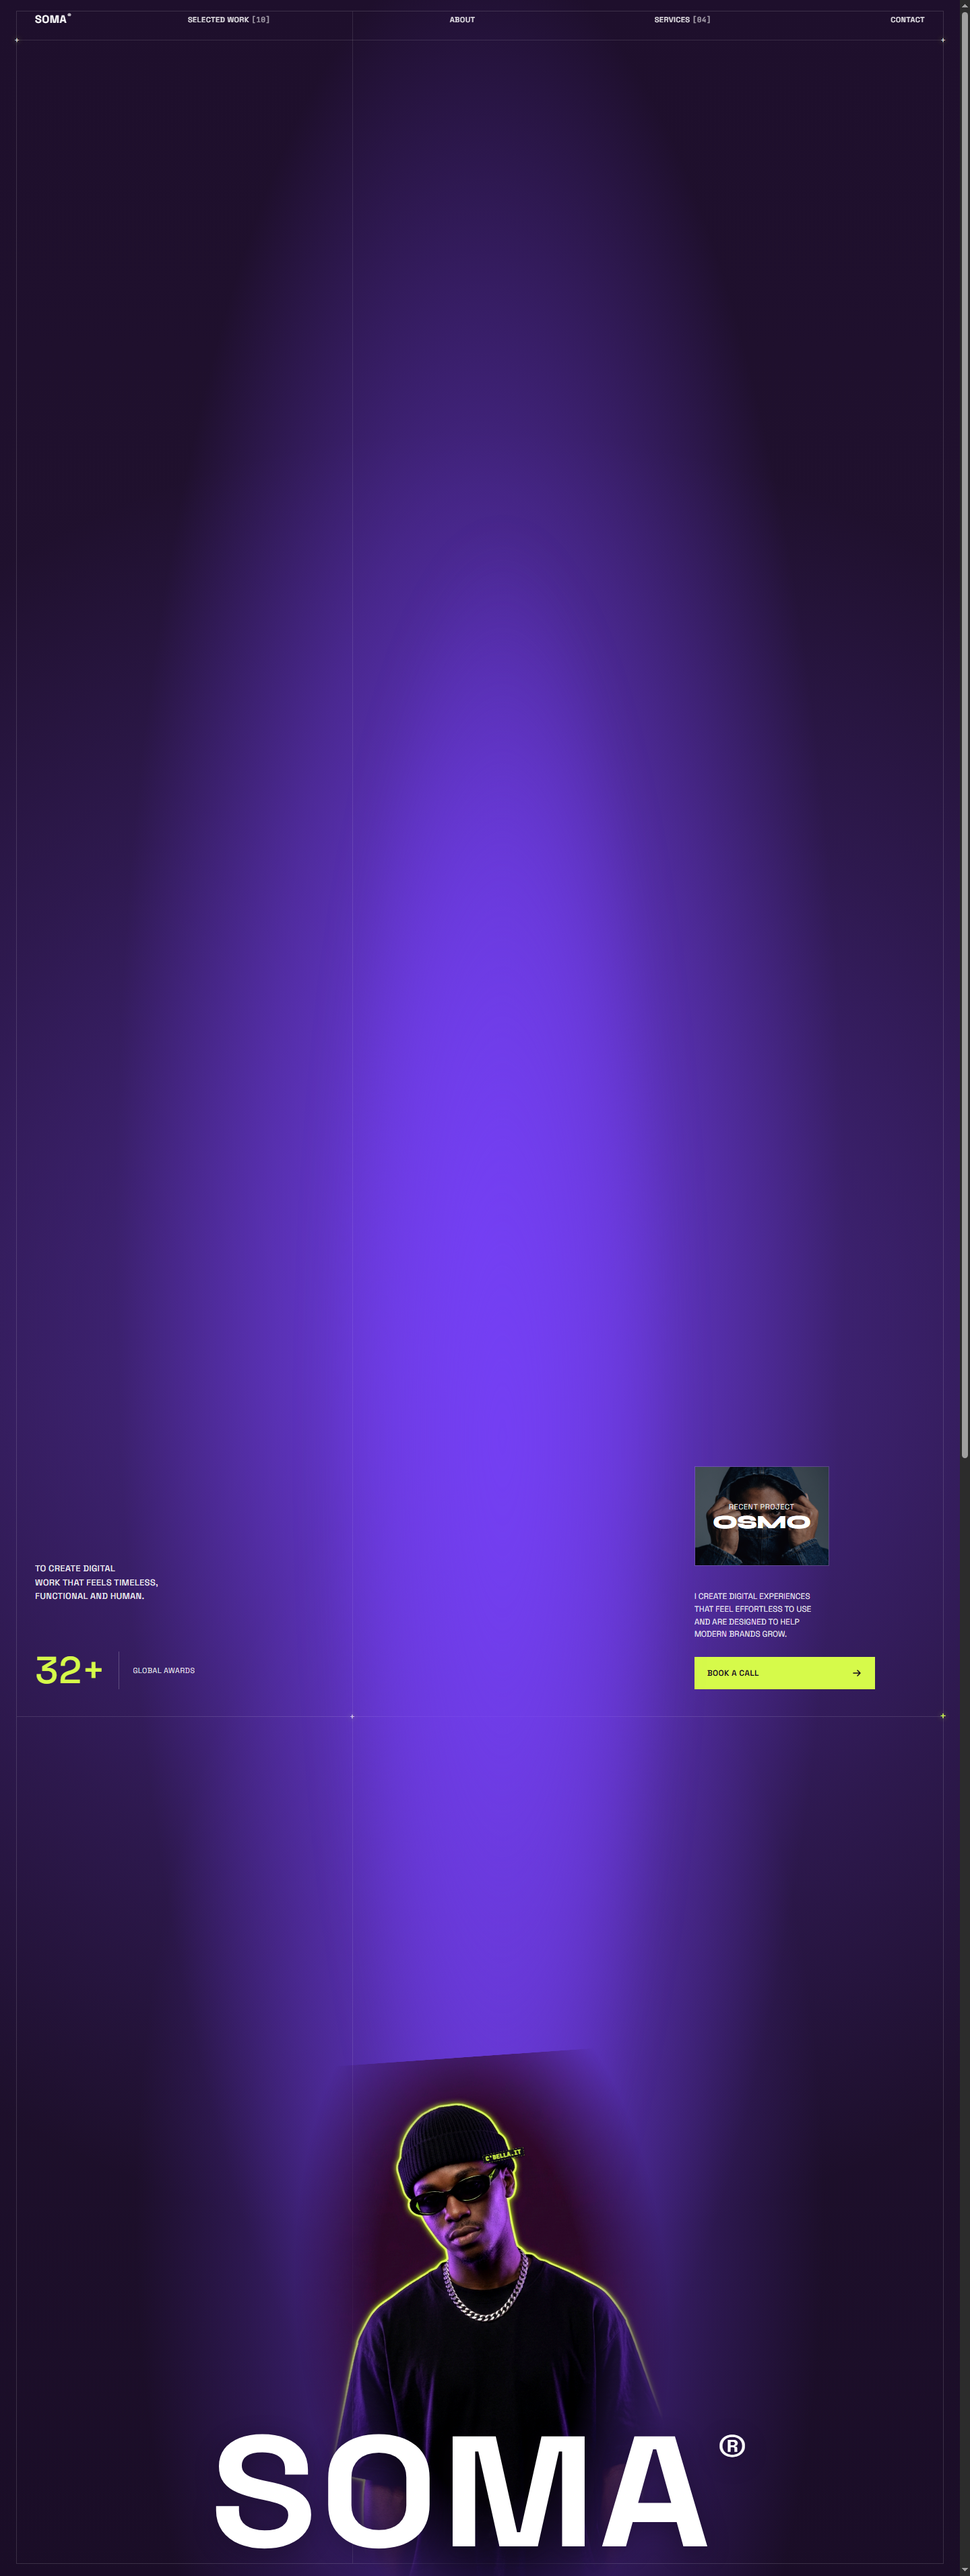
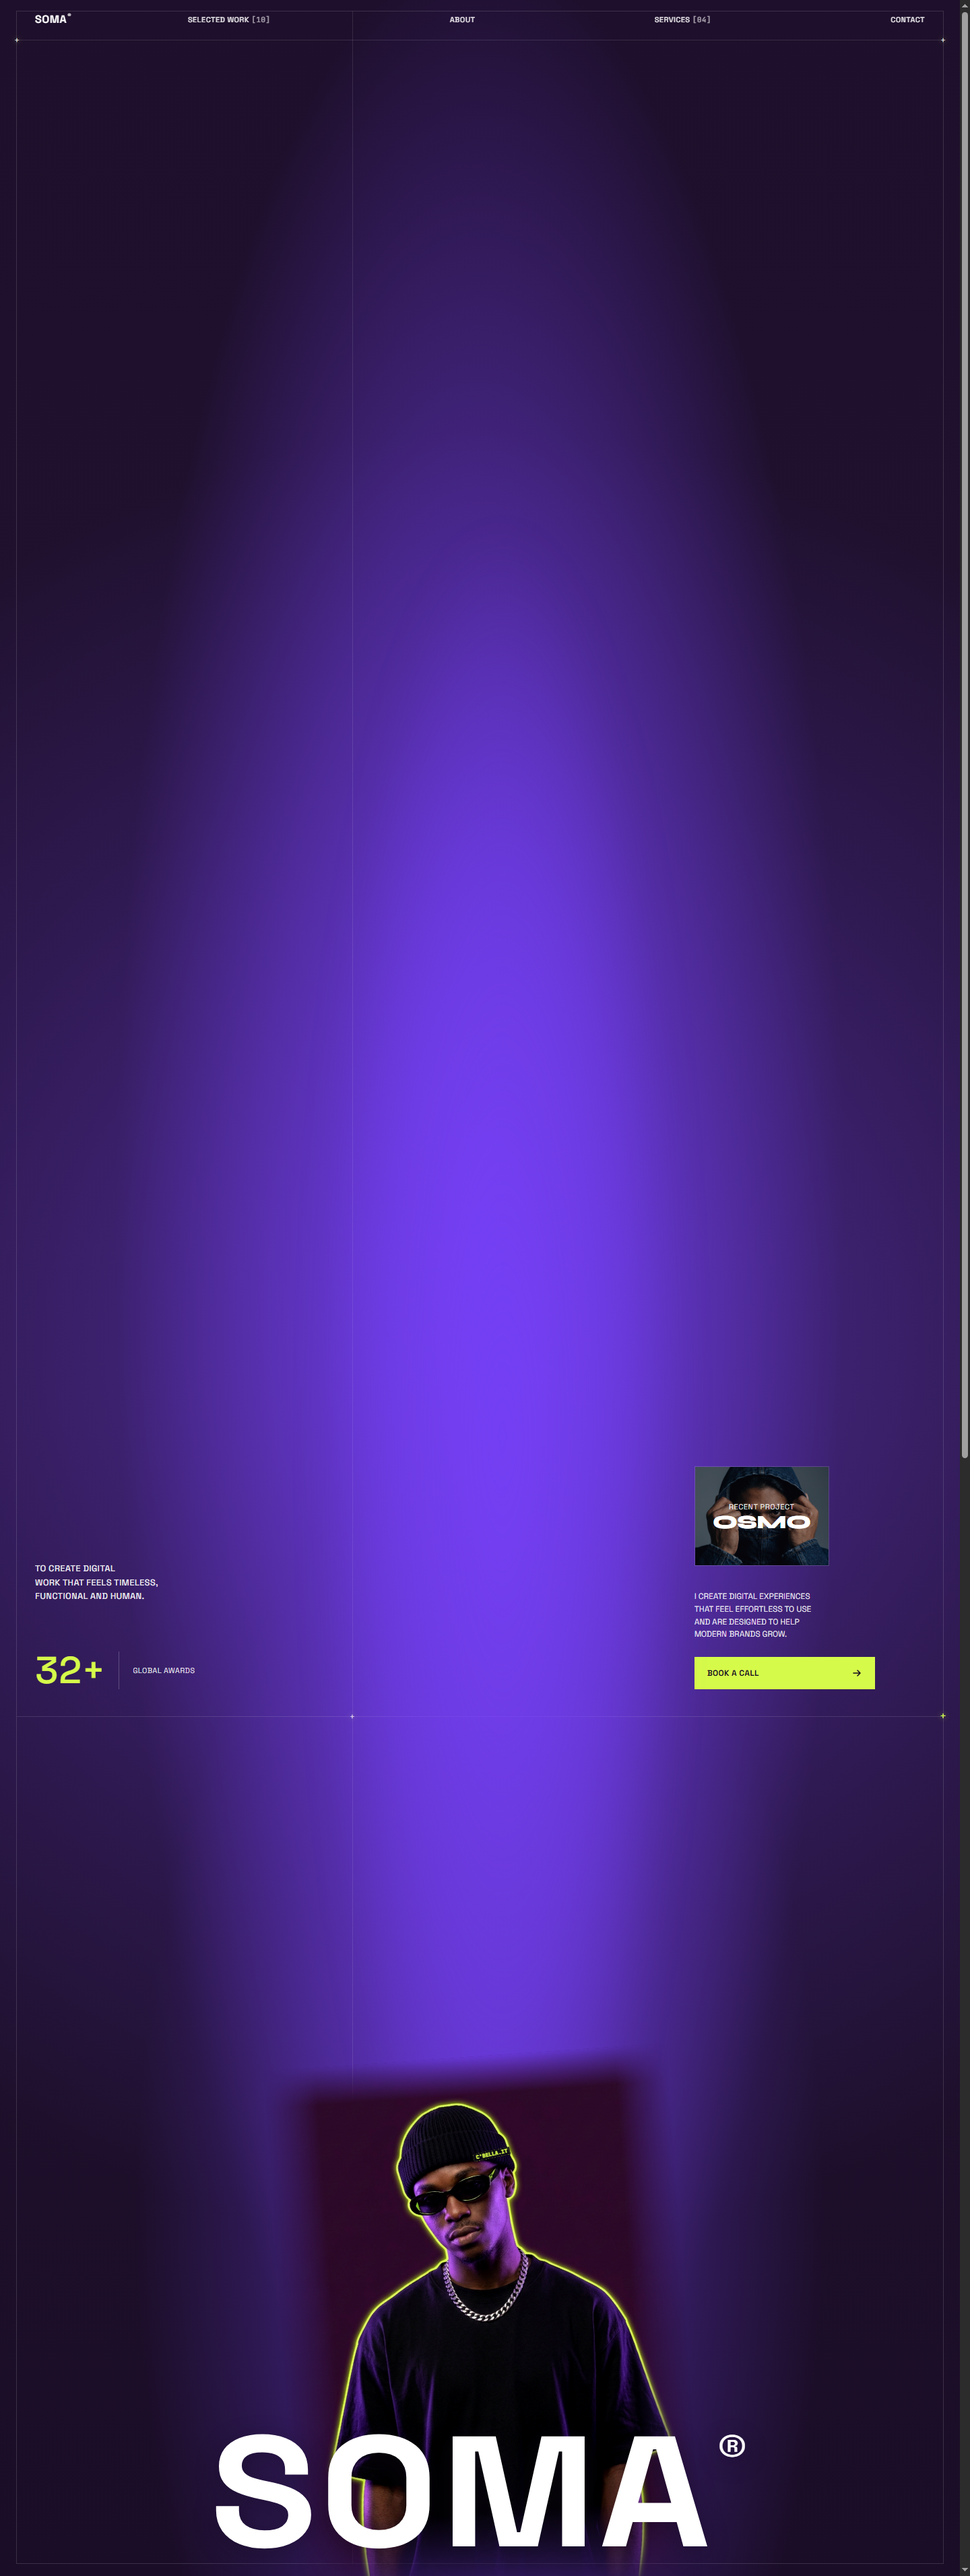
style(creativeagency,neurotech): refine portrait edge mask, HUD connector targets, and refresh screenshots

Changed region(s): [[0.2812, 0.7782, 0.6875, 1.0], [0.5, 0.9961, 0.5312, 1.0]]

diff --git a/creativeagency_deepplum+electricviolet+acidlime/styles.css b/creativeagency_deepplum+electricviolet+acidlime/styles.css
@@ -356,9 +356,15 @@ img {
   margin-bottom: -56px;
   transform: rotate(-4deg);
   transform-origin: center bottom;
-  /* Soft radial feather blends plum edges cleanly into the violet spotlight */
-  -webkit-mask-image: radial-gradient(ellipse 56% 78% at 50% 46%, #000 46%, transparent 82%);
-  mask-image: radial-gradient(ellipse 56% 78% at 50% 46%, #000 46%, transparent 82%);
+  /* Intersecting top/bottom and side fades eliminate JPEG edge seams while keeping the beanie crisp */
+  -webkit-mask-image:
+    linear-gradient(to bottom, transparent 0%, #000 7%, #000 84%, transparent 100%),
+    linear-gradient(to right, transparent 0%, #000 13%, #000 87%, transparent 100%);
+  -webkit-mask-composite: source-in;
+  mask-image:
+    linear-gradient(to bottom, transparent 0%, #000 7%, #000 84%, transparent 100%),
+    linear-gradient(to right, transparent 0%, #000 13%, #000 87%, transparent 100%);
+  mask-composite: intersect;
 }
 
 .hero-portrait {
@@ -370,13 +376,13 @@ img {
 
 .beanie-badge {
   position: absolute;
-  top: 17.6%;
-  left: 51%;
-  transform: rotate(-8deg) scale(0.76);
+  top: 17.2%;
+  left: 48.2%;
+  transform: rotate(-8deg) scale(0.68);
   transform-origin: center;
   padding: 2px 5px;
-  background: rgba(16, 14, 22, 0.9);
-  border: 1px dashed rgba(214, 250, 74, 0.58);
+  background: rgba(14, 12, 20, 0.86);
+  border: 1px dashed rgba(214, 250, 74, 0.52);
   border-radius: 2px;
   color: var(--accent-loud);
   font-family: var(--font-mono);
@@ -385,7 +391,7 @@ img {
   line-height: 1;
   letter-spacing: 0.04em;
   white-space: nowrap;
-  box-shadow: 0 1px 4px rgba(0, 0, 0, 0.6);
+  box-shadow: 0 1px 3px rgba(0, 0, 0, 0.55);
 }
 
 /* Right Column */
@@ -972,6 +978,11 @@ h2 {
     width: min(300px, 76vw);
     margin-bottom: 0;
     transform: rotate(-4deg);
+  }
+  .beanie-badge {
+    top: 16.4%;
+    left: 44.5%;
+    transform: rotate(-8deg) scale(0.36);
   }
   .hero-wordmark {
     position: static;

diff --git a/neurotech_cloudywhite+galacticviolet+bubblegumpink/index.html b/neurotech_cloudywhite+galacticviolet+bubblegumpink/index.html
@@ -72,20 +72,20 @@
         <!-- HUD Callout Connectors Overlay -->
         <svg class="hud-connectors" viewBox="0 0 1440 900" preserveAspectRatio="none" aria-hidden="true">
           <!-- Emotional State (top-left) -> left helmet/visor temple -->
-          <polyline class="hud-line" points="450,210 594,210" />
-          <circle class="hud-anchor" cx="450" cy="210" r="3.5" />
-          <circle class="hud-target-ring" cx="594" cy="210" r="9" />
-          <circle class="hud-target-dot" cx="594" cy="210" r="3.5" />
+          <polyline class="hud-line" points="449,210 612,210" />
+          <circle class="hud-anchor" cx="449" cy="210" r="3.5" />
+          <circle class="hud-target-ring" cx="612" cy="210" r="9" />
+          <circle class="hud-target-dot" cx="612" cy="210" r="3.5" />
 
           <!-- Frontal Lobe 80% (top-right) -> right visor optics -->
-          <polyline class="hud-line" points="1028,284 1028,344 828,344" />
-          <circle class="hud-anchor" cx="1028" cy="284" r="3.5" />
+          <polyline class="hud-line" points="1028,288 1028,344 828,344" />
+          <circle class="hud-anchor" cx="1028" cy="288" r="3.5" />
           <circle class="hud-target-ring" cx="828" cy="344" r="9" />
           <circle class="hud-target-dot" cx="828" cy="344" r="3.5" />
 
           <!-- Focus Level 82% (lower-left) -> lower-left visor lens -->
-          <polyline class="hud-line" points="496,538 658,538 658,386" />
-          <circle class="hud-anchor" cx="496" cy="538" r="3.5" />
+          <polyline class="hud-line" points="497,538 658,538 658,386" />
+          <circle class="hud-anchor" cx="497" cy="538" r="3.5" />
           <circle class="hud-target-ring" cx="658" cy="386" r="10" />
           <circle class="hud-target-dot" cx="658" cy="386" r="3.5" />
         </svg>

diff --git a/neurotech_cloudywhite+galacticviolet+bubblegumpink/styles.css b/neurotech_cloudywhite+galacticviolet+bubblegumpink/styles.css
@@ -518,7 +518,7 @@ img {
 
 .lobe-tick {
   display: block;
-  width: calc(50% - 6px);
+  width: 52%;
   height: 0;
   border-bottom: 1.5px solid var(--ink);
 }
@@ -534,7 +534,7 @@ img {
 .lobe-brain {
   position: relative;
   z-index: 1;
-  margin: -4px auto;
+  margin: -2px auto;
   width: 88px;
   height: 74px;
   overflow: hidden;
